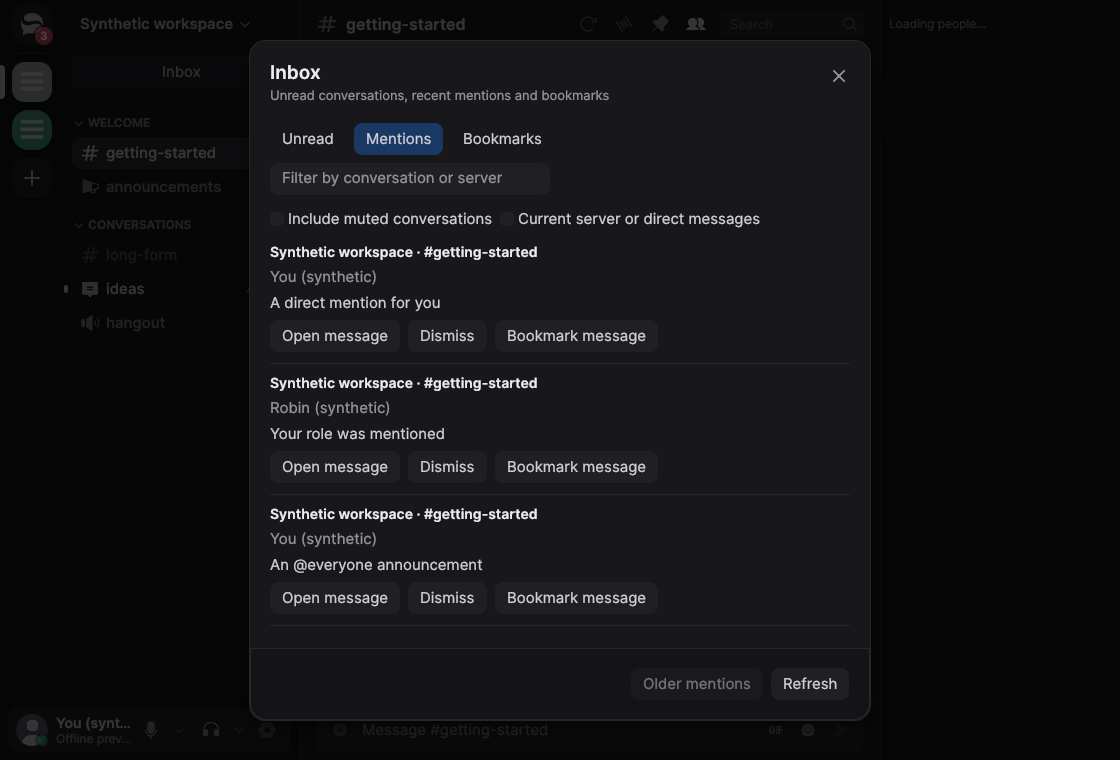
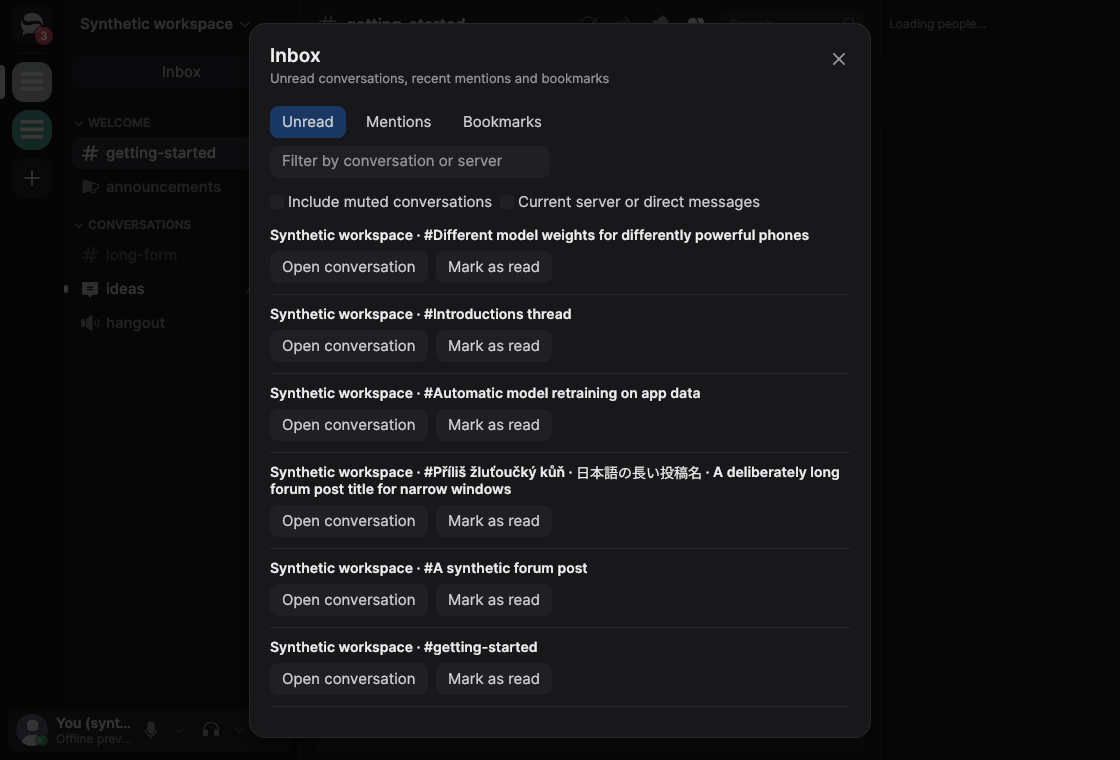
fix(inbox): remove empty footer and refresh native evidence

diff --git a/crates/ui/src/inbox.rs b/crates/ui/src/inbox.rs
@@ -379,39 +379,41 @@ impl MessagingUi {
 						));
 					}
 				});
-				body.footer(|ui| {
-					if state.inbox.stale {
-						ui.weak(i18n::translate("inbox-refresh-needed"));
-					}
-					let enabled = state.can_load_mentions() && !state.inbox.loading;
-					if self.inbox_controls.tab != Tab::Unread
-						&& ui
-							.add_enabled(
-								enabled,
-								egui::Button::new(i18n::translate("inbox-refresh")),
-							)
-							.clicked()
-					{
-						if self.inbox_controls.tab == Tab::Saved {
-							action = Some(Action::Saved);
-						} else {
-							load = Some(None);
+				if self.inbox_controls.tab != Tab::Unread || state.inbox.stale {
+					body.footer(|ui| {
+						if state.inbox.stale {
+							ui.weak(i18n::translate("inbox-refresh-needed"));
 						}
-					}
-					if self.inbox_controls.tab == Tab::Mentions
-						&& ui
-							.add_enabled(
-								enabled && state.inbox.next.is_some(),
-								egui::Button::new(i18n::translate("inbox-older")),
-							)
-							.clicked()
-					{
-						load = Some(state.inbox.next);
-					}
-					if self.inbox_controls.tab == Tab::Saved {
-						ui.weak(i18n::translate("inbox-service-availability"));
-					}
-				});
+						let enabled = state.can_load_mentions() && !state.inbox.loading;
+						if self.inbox_controls.tab != Tab::Unread
+							&& ui
+								.add_enabled(
+									enabled,
+									egui::Button::new(i18n::translate("inbox-refresh")),
+								)
+								.clicked()
+						{
+							if self.inbox_controls.tab == Tab::Saved {
+								action = Some(Action::Saved);
+							} else {
+								load = Some(None);
+							}
+						}
+						if self.inbox_controls.tab == Tab::Mentions
+							&& ui
+								.add_enabled(
+									enabled && state.inbox.next.is_some(),
+									egui::Button::new(i18n::translate("inbox-older")),
+								)
+								.clicked()
+						{
+							load = Some(state.inbox.next);
+						}
+						if self.inbox_controls.tab == Tab::Saved {
+							ui.weak(i18n::translate("inbox-service-availability"));
+						}
+					});
+				}
 			});
 		if changed_tab {
 			commands.push(state.clear_mentions());

diff --git a/docs/performance.md b/docs/performance.md
@@ -1495,3 +1495,92 @@ The earlier full workspace, fuzz, replay and package results above retain their 
 revision scope; they are not measurements of these corrections. The native connection
 cancellation test awaits CI because its local code-generation run was deferred for the
 workspace memory budget. Current revision results are linked in the PR.
+
+
+### Current Inbox application and package verification at `3d20f9bb`
+
+[Run 39054844003](https://github.com/MCShotty/Serein/actions/runs/39054844003)
+passed all four native application/package jobs (Linux x64, Windows x64/ARM64,
+macOS ARM64), installer fixtures, SDK, licenses, ASan fuzz and all three release
+replay comparisons. Its merge checkout `071e456b` has the exact Git tree of
+`3d20f9bb`. The connection-cancellation test is included in the current native
+workspace gate; its formerly deferred local run is not claimed separately.
+Security and separate Nix failures remain inherited.
+
+The initial package measurements above remain historical. Current standard
+voice-inclusive packages use the same regular-file installed-payload and fixed
+ZIP DEFLATE-6 normalization method. Baselines remain published nightly
+`3a4bf8d` and previous fork `f9e39f7`; one artifact per revision/platform.
+No installer or outer CI archive is included in the normalized distribution.
+Values are MiB (1,048,576 bytes), with absolute/percentage deltas versus the fork.
+
+| Platform / metric | Nightly | Previous fork | Current Inbox | Delta vs fork |
+| --- | ---: | ---: | ---: | ---: |
+| Linux-X64 / executable | 83.682 | 87.900 | 88.273 | +0.373 (+0.42%) |
+| Linux-X64 / installed payload | 88.006 | 130.657 | 131.031 | +0.373 (+0.29%) |
+| Linux-X64 / normalized distribution | 51.211 | 84.553 | 84.712 | +0.158 (+0.19%) |
+| Windows-X64 / executable | 82.910 | 87.505 | 87.970 | +0.465 (+0.53%) |
+| Windows-X64 / installed payload | 86.909 | 135.216 | 135.681 | +0.465 (+0.34%) |
+| Windows-X64 / normalized distribution | 47.986 | 80.844 | 81.007 | +0.163 (+0.20%) |
+| macOS-ARM64 / executable | 65.946 | 69.884 | 70.198 | +0.314 (+0.45%) |
+| macOS-ARM64 / installed payload | 71.641 | 95.216 | 95.530 | +0.314 (+0.33%) |
+| macOS-ARM64 / normalized distribution | 46.027 | 63.548 | 63.686 | +0.138 (+0.22%) |
+
+Windows x64 and ARM64 clean/cached packages both pass archive validation and the
+bounded driver-query launch without the development FFmpeg prefix in PATH.
+The x64 clean/cached ZIPs are both 86,047,535 bytes; ARM64 is 69,104,411 bytes.
+Their metadata-dependent hashes differ, so bit-for-bit reproducibility is not
+claimed. The helper exits before UI/account/audio initialization: these are not
+interactive application launches or hardware-encoding acceptance tests. No manual
+staging repair was used. macOS nightly is signed while the CI bundle is unsigned;
+all package figures are observed build deltas, not an isolated feature cost.
+Current artifacts and clean/cached JSON evidence are retained by that run.
+Release UI CPU/RSS, media throughput and physical display checks remain unmeasured.
+
+
+### Current Inbox cross-platform release replay at `3d20f9bb`
+
+[Run 39054844003](https://github.com/MCShotty/Serein/actions/runs/39054844003)
+compares published nightly `v1.0.0-nightly.20261014.58` (`3a4bf8d`), previous
+fork `f9e39f7` and Inbox code `3d20f9bb`. The same release settings and sampling
+method above apply: one warmup, five rotated samples, one allowed logical CPU
+on Linux/Windows and platform scheduling on macOS. Per-OS artifacts record exact
+revisions, OS/CPU, settings and raw samples. Values are milliseconds, median
+(minimum–maximum). They measure core state, not native UI/media performance.
+
+| Platform / workload | Nightly | Previous fork | Inbox | Delta vs nightly / fork |
+| --- | ---: | ---: | ---: | ---: |
+| Linux-X64 / reducer | 56.668 (55.112–57.319) | 57.320 (55.984–60.732) | 56.592 (55.781–56.929) | -0.1% / -1.3% |
+| Linux-X64 / wide channels | 100.255 (89.555–102.417) | 109.163 (107.814–110.290) | 95.278 (93.712–96.481) | -5.0% / -12.7% |
+| Windows-X64 / reducer | 110.119 (103.805–124.310) | 107.383 (106.629–108.035) | 106.993 (106.750–109.522) | -2.8% / -0.4% |
+| Windows-X64 / wide channels | 228.188 (222.732–231.541) | 227.009 (224.482–233.393) | 224.888 (222.317–228.622) | -1.4% / -0.9% |
+| macOS-ARM64 / reducer | 65.531 (64.239–70.252) | 70.053 (60.927–79.586) | 66.613 (62.559–79.989) | +1.7% / -4.9% |
+| macOS-ARM64 / wide channels | 100.838 (94.759–111.089) | 94.479 (91.853–99.470) | 98.590 (90.037–116.093) | -2.2% / +4.4% |
+
+Ranges overlap and no causal improvement is claimed. Earlier local slower measurements above remain historical and unisolated.
+
+
+### Final Inbox native evidence and footer correction
+
+The final pair replaces the initial feature screenshots with fresh native captures
+of fork `f9e39f7` and Inbox code `3d20f9bb` plus the footer-only correction.
+Both use the same synthetic channel-links scenario, 1120 × 760 dark window and
+scale 1. The baseline has the two documented demo-only build repairs (duplicate
+avatar helpers and the missing optional error argument to `pending::show`),
+with its displayed feature UI unchanged. The new frame opens the Unread tab;
+no live account or service is used. Light mode at the supported minimum 760 × 520
+was also inspected. Only one small current pair is committed.
+
+The final native capture exposed an empty action strip on a fresh Unread page.
+The footer now draws when another tab has controls or an existing stale-status
+message needs it. The ten Inbox regressions, pinned formatting and strict native
+UI all-target/demo Clippy pass after this conditional-rendering correction.
+The native preview is rebuilt for the final captures. Capture uses explicit
+`--demo --interactive`, Xvfb/software rendering, process-liveness checks and
+ImageMagick's application-window capture; no image editing is used.
+
+Full native application/package CI above is for `3d20f9bb`, before the footer
+correction. Core release replay and package snapshots retain that revision label;
+the footer does not change the measured core workload. The final UI/code-and-evidence
+head receives its own CI. Release UI CPU/RSS, media throughput, physical displays
+and owner-controlled Discord acceptance remain unmeasured or unverified here.

diff --git a/docs/discord-compatibility.md b/docs/discord-compatibility.md
@@ -32,23 +32,23 @@ workflow/schema evidence, not a completed client comparison.
 | Reply/edit/send/uploads | Existing bounded drafts, nonce correlation and explicit uncertain-write handling | `message_actions.rs`, `replies.rs`, `uploads.rs`; interaction audit remains partial |
 | Reactions, polls, pins, forwarding | Native workflows already exist | `reactions.rs`, `polls.rs`, `forwarding.rs`, `message_actions.rs`; official-client comparison pending |
 | Slash command basics | Native schema-driven commands and modal lifecycle | `application_commands.rs`, `interactions.rs` |
-| Command autocomplete/files/context/account install | Native autocomplete, user/message context commands and eligible account discovery on `feat/application-command-parity`; attachment arguments remain unsupported | Independent branch under validation; live service acceptance unverified |
+| Command autocomplete/files/context/account install | Native autocomplete, user/message context commands and eligible account discovery in [fork #10](https://github.com/MCShotty/Serein/pull/10); attachment arguments remain unsupported | Independent branch under validation; live service acceptance unverified |
 | Threads/forums | Native archives, participants, creation, tags and management | `threads.rs`, `archives.rs`, `forum.rs`, `channel_actions.rs`; private-thread/permission audit pending |
 | Announcement following/publishing | Existing channel integrations/follow support; publishing audit pending | `server_integrations.rs`, `channel_actions.rs` |
 | Group-DM membership | Native invite/remove/leave and group management | `group_actions.rs`; changed-membership recovery unverified live |
 | Server settings and lifecycle | Native settings and confirmed deletion; permissions and draft checks exist | `server_settings.rs`, `server_actions.rs`; owner/admin/member matrix needs expansion |
 | Roles and hierarchy | Native create/edit/delete, ordering, assignment and hierarchy gates | `server_roles.rs`; no replacement implementation needed |
 | Channel/category organization | Native creation, movement, reordering and permission synchronization | `channel_actions.rs`, `ui/channel_menu.rs` |
-| Member moderation | Ban/unban/timeout/reason tools on `feat/server-moderation-parity`, extending existing moderation; bans require a current member lookup | Owner/admin/moderator/member and stale-permission regressions; independent branch under validation |
+| Member moderation | Ban/unban/timeout/reason tools in [fork #11](https://github.com/MCShotty/Serein/pull/11), extending existing moderation; bans require a current member lookup | Owner/admin/moderator/member and stale-permission regressions; independent branch under validation |
 | Invites/integrations/audit log | Native permission-scoped settings with bounded reads and explicit writes | `server_invites.rs`, `server_integrations.rs`, `server_audit_log.rs` |
-| AutoMod | Native bounded rule editor on `feat/server-moderation-parity`, with sparse edits and explicit conflict recovery | [Official resource](https://docs.discord.com/developers/resources/auto-moderation); owner-controlled service validation remains |
+| AutoMod | Native bounded rule editor in [fork #11](https://github.com/MCShotty/Serein/pull/11), with sparse edits and explicit conflict recovery | [Official resource](https://docs.discord.com/developers/resources/auto-moderation); owner-controlled service validation remains |
 | Scheduled events | No native browse/create/edit/RSVP/cancel flow yet | [Official scheduled-event resource](https://docs.discord.com/developers/resources/guild-scheduled-event); implementation required |
 | Stage participation/moderation | Unsupported; must never enable microphone transmission for audience joins | `client-core/voice.rs`; implementation and reconnect tests required |
 | Onboarding, Channels & Roles | Native participant answers; administrative configuration incomplete | `onboarding.rs`; role/channel invalidation coverage required |
 | Rules screening / Server Guide | Native participant verification and onboarding answers exist; administrative editing and Server Guide remain gaps | `onboarding.rs`; administrative capability/schema audit and owner-controlled verification required |
 | Encoding/capture/HDR | Existing video work retained; #567 scope and path limit unchanged | `docs/voice.md`, video evidence; physical display/official-client gates remain |
-| Soundboard | Playback, management and trimmed uploads integrated on `feat/desktop-parity-media` from upstream #579, with bounded cancellation and call-scoped responses | Depends on #7; independent branch under validation; live acceptance unverified |
-| Voice messages | Pitch-preserving speed and volume controls integrated on `feat/desktop-parity-media`; recording remains absent | Playback adapted from #662; recording candidate #566 still requires opt-in capture, SDK and lifecycle review |
+| Soundboard | Playback, management and trimmed uploads integrated in [fork #12](https://github.com/MCShotty/Serein/pull/12) from upstream #579, with bounded cancellation and call-scoped responses | Depends on #7; independent branch under validation; live acceptance unverified |
+| Voice messages | Pitch-preserving speed and volume controls integrated in [fork #12](https://github.com/MCShotty/Serein/pull/12); recording remains absent | Playback adapted from #662; recording candidate #566 still requires opt-in capture, SDK and lifecycle review |
 | Video/audio playback | Existing native playback; FFmpeg preference is separate #7 | `apps/desktop/src/audio.rs`, `video.rs`; media performance unmeasured on Windows/macOS |
 | Embedded video | Partial native cards; upstream #439 is an integration candidate | Keep anonymous bounded media-reader and explicit navigation boundaries |
 | Device routing / screen audio | Existing selected input/output; separate media output upstream #533; screen-audio platform limits remain | `voice.rs`, `audio.rs`, `docs/platform-support.md` |
